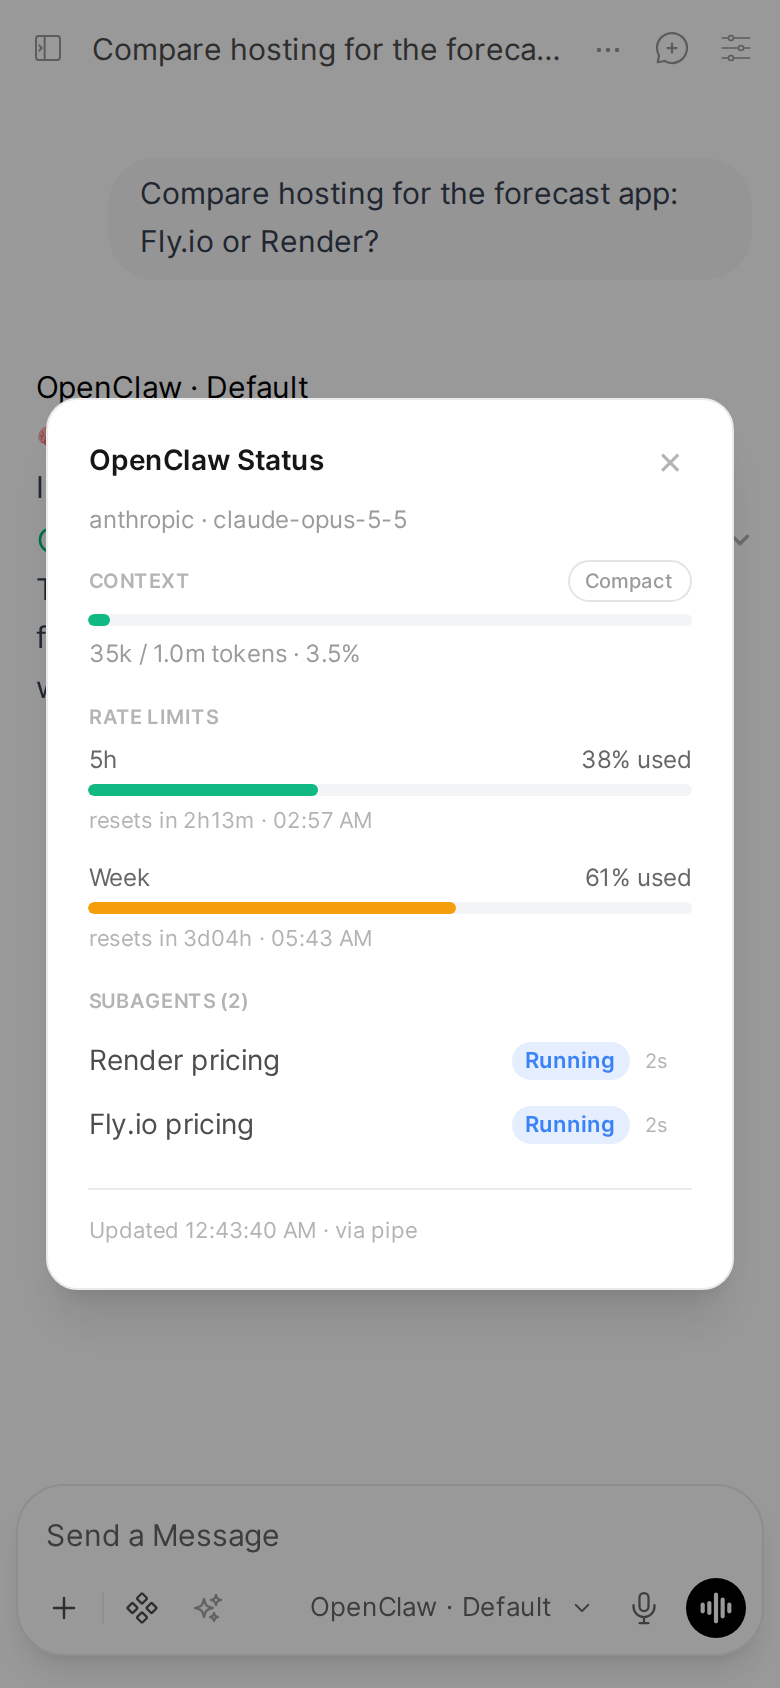
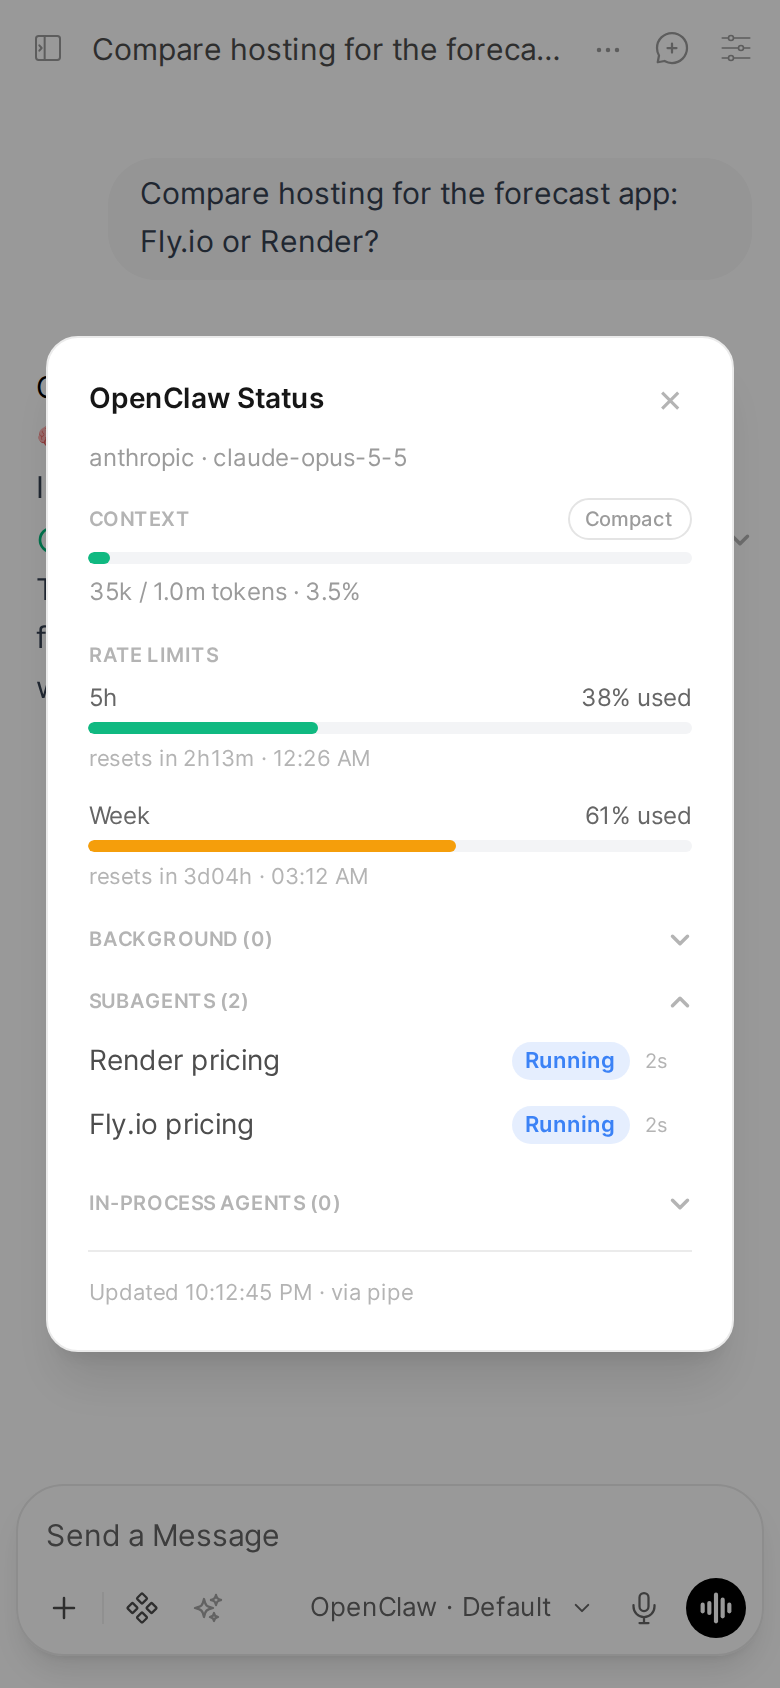
Docs: the Status dialog's sections and how they load, Background, folds, scrolling and the waiting line, with their screenshots (ELI-163)

diff --git a/docs/features/status.md b/docs/features/status.md
@@ -1,4 +1,4 @@
-The Status dialog shows a chat's context use, your rate limits and the sub-agents its runs spawned, fetched live when you open it. From there you can compact the session, or open any sub-agent's drawer to read its run like a chat.
+The Status dialog shows a chat's context use, your rate limits, what runs in the background for it and the sub-agents its runs spawned, fetched live when you open it. From there you can compact the session, or open any sub-agent's drawer to read its run like a chat.
 
 Applies to: Action (the composer Status button also needs the Pipe)
 Valves: `GATEWAY_URL`, `GATEWAY_TOKEN`, `DEVICE_IDENTITY`, `STATE_DIR`, `AGENT_ID`, `CONTROL_UI_URL` (Action); `COMPOSER_STATUS_BUTTON` (Pipe)
@@ -11,11 +11,31 @@ _Separate function: install the Status Action first, see [Status button](../inst
 
 _The rate limits in this screenshot are sample data._
 
-The Status Action adds a button to the message toolbar. It opens a dialog with three sections: Context, Rate Limits and Subagents.
+The Status Action adds a button to the message toolbar. It opens a dialog with five sections: Context, Rate limits, [Background](#background), [Subagents](#sub-agents) and In-process agents.
 
 ![The OpenClaw Status button on a reply's toolbar](../img/toolbar-button-light.png)
 
-Each section has its own skeleton and fills the moment its own request returns, so a slow sub-agent list does not hold up the context number. Usage bars are colour coded (green under 60%, amber from 60%, red from 85%), with the colours inlined so a theme cannot make them invisible.
+The dialog opens at once with every section's title. Each section then reads its own source and fills the moment that source answers, with its own loading, empty and error state, so a slow or failing source shows in its own section only:
+
+![The Status dialog while its rate limits are still loading: Context, Background, Subagents and In-process agents already filled](../img/status-dialog-loading-light.png)
+
+_Here the rate limits were held back on purpose, to show it._
+
+| Section | Reads |
+|---|---|
+| Context | `sessions.describe` |
+| Rate limits | `usage.status`, for the provider Context's read names (the same request); `claudeCliUsage.status` only when `usage.status` has no windows |
+| Background | `tasks.list`, `cron.list`, and Open WebUI's copy of the chat |
+| Subagents | `sessions.list` (the store's rows only); the sub-agents' transcripts (`sessions.preview`) only once the section is open |
+| In-process agents | Open WebUI's copy of the chat (the same read as Background's) |
+
+Each source is read once per open, all at the same time. Nothing is read while the dialog is closed: closing it tells the Action, which stops following its running sub-agents. In-process agents needs no Gateway, so it fills even when the Gateway cannot be reached.
+
+Background, Subagents and In-process agents fold, with their count in the title, for example "Background (3)". Each opens when something in it is running and starts folded otherwise; a tap opens or folds it, and stays that way while the dialog is open. When the dialog is taller than the screen, its sections scroll between the title bar and the footer, which stay in view, on a phone too:
+
+![The Status dialog on a small phone, scrolled to its end: the title bar and the footer stay on screen](../img/status-dialog-scrolled-light.png)
+
+Usage bars are colour coded (green under 60%, amber from 60%, red from 85%), with the colours inlined so a theme cannot make them invisible.
 
 The footer says when the dialog last refreshed and whether it used the Pipe's live connection (`via pipe`) or opened its own (`via action-own`). It reuses the Pipe's connection when one is open, and otherwise connects with the Pipe's saved device identity from `STATE_DIR`, so there is never a second device to approve. The Action's own connection only reads: it never writes a reply into a chat.
 
@@ -41,9 +61,36 @@ The `/compact` command becomes a turn in the session's stored transcript, so oth
 
 Typing `/compact` in the message box does not compact the session: Open WebUI 0.12 handles `/compact`, `/status`, `/fork` and `/model` itself, so they never reach OpenClaw. Use the Compact button in this dialog instead.
 
+## Background
+
+![The Background section: four station imports running, a daily automation for this chat, and the Gateway's other automations](../img/status-dialog-background-light.png)
+
+The Background section lists what runs for this chat outside a reply, running first, then the five newest that finished:
+
+- **Commands** left running in the background (`exec` with `background`, or one that outlived its wait), named by the command the chat's tool card shows.
+- **Image, Music and Video** jobs.
+- **Automations** that run in this chat: whether one is running, its next run, and its last error when it failed ("Failed 3 times in a row: ...").
+- **Agents**: Claude Code Agent calls started in the background, until the reply they hold open ends. A tap shows the task and the result, as under In-process agents.
+
+Sub-agents are listed under Subagents, not here.
+
+Owners also see **Other automations**: the Gateway's automations that run elsewhere, running and failing ones first, up to five ("5 of N"). Anyone not in the Pipe's [`OWNER_USERS`](../configuration.md#owner_users) sees only their own chat's. With `OWNER_USERS` empty, everyone is an owner, as everywhere else.
+
+The section reads only when the dialog opens. OpenClaw 2026.10 removed the Gateway's task list (`tasks.list`): there the section says background commands and media jobs are not available on this Gateway, and still lists the chat's automations.
+
+While a background agent holds a reply open, the reply's status row says so, so the chat does not look busy for no reason:
+
+![A reply's status row: Waiting on 1 background agent](../img/background-agent-waiting-light.png)
+
+It counts the background agents the reply started and stays until the reply ends.
+
 ## Sub-agents
 
-The Subagents section lists every child session this chat's runs spawned, ended ones included, newest first, up to 20 ("20 of N" when there are more). A running one's elapsed time counts up while the dialog is open; one that finishes meanwhile shows its end as soon as the Gateway pushes the change. Below them, **In-process agents** lists the chat's Claude Code Agent calls, which are not Gateway sessions, as their tool cards show them: running, in the background, returned, cut off or failed.
+The Subagents section lists every child session this chat's runs spawned, ended ones included, newest first, up to 20 ("20 of N" when there are more). A running one's elapsed time counts up while the dialog is open; one that finishes meanwhile shows its end as soon as the Gateway pushes the change. With none running, the section opens folded and reads the sub-agents' transcripts (their tasks and latest replies) on its first tap:
+
+![The Status dialog with every section folded, each with its count](../img/status-dialog-folded-light.png)
+
+**In-process agents** lists the chat's Claude Code Agent calls, which are not Gateway sessions, as their tool cards show them: running, in the background, returned, cut off or failed.
 
 Each row is one line: the sub-agent's spawn label (else the first sentence of its task, cut to 60 characters), its status, and its time, with up to two lines of its latest reply below. The whole task is in its drawer.
 

diff --git a/docs/features/index.md b/docs/features/index.md
@@ -31,7 +31,7 @@ Everything here works as soon as the Pipe is installed, except entries marked:
 
 ## Status
 
-- [**Status dialog**](./status.md#the-status-dialog) _(separate function)_: context, rate limits and sub-agents, fetched live on demand, from the message toolbar or the composer
+- [**Status dialog**](./status.md#the-status-dialog) _(separate function)_: context, rate limits, background work and sub-agents, fetched live on demand, each section on its own, from the message toolbar or the composer
 - [**Compact from the dialog**](./status.md#compact): run `/compact` on the session and watch the numbers change
 - [**Sub-agent drawer**](./status.md#sub-agent-drawer): each sub-agent's run as a read-only chat, its tool calls as cards, growing while it runs
 - [**Backend diagnostics**](../troubleshooting.md): prefixed logs for every reply, save decision and tool call
